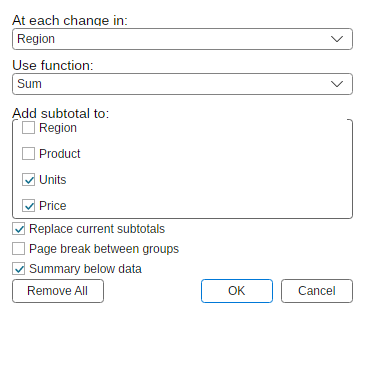
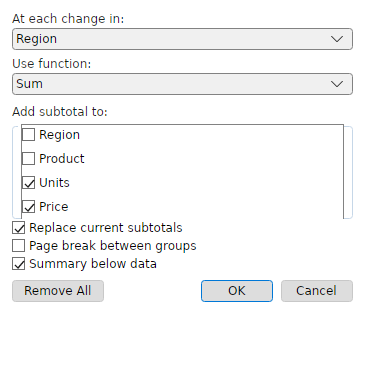
Align Avalonia Subtotal dialog with WPF

diff --git a/src/FreeX.App.Avalonia/MainWindow.cs b/src/FreeX.App.Avalonia/MainWindow.cs
@@ -338,6 +338,18 @@ public sealed partial class MainWindow : Window
     private static readonly IBrush FormulaBarControlBorder = Brush(192, 192, 192);
     private static readonly FontFamily FormulaBarFontFamily =
         new("Segoe UI, Arial Narrow, Aptos Narrow, Liberation Sans Narrow, Nimbus Sans Narrow, DejaVu Sans Condensed, Arial, Liberation Sans, sans-serif");
+    // Subtotal is a compact WPF data dialog: its inputs and buttons are shorter than the generic
+    // 24px compact-dialog family. Keep the shared chrome and only override the measured WPF metrics.
+    private static readonly AvaloniaCompactDialogChromeStyle SubtotalDialogChromeStyle =
+        AvaloniaCompactDialogChrome.WindowsStyle with
+        {
+            ControlHeight = 22,
+            ButtonHeight = 22,
+            ButtonPadding = new Thickness(10, 1),
+            ComboBoxPadding = new Thickness(4, 0, 4, 0),
+            ListBoxItemPadding = new Thickness(0, 1),
+            ListBoxItemMinHeight = 22,
+        };
 
     // Shell chrome surface — shared by the toolbar and the sheet-tabs/status bar so the window chrome reads
     // as one cohesive light surface (the same #F5F6F7 the ribbon theme uses). Exposed for tests.
@@ -20050,6 +20062,7 @@ public sealed partial class MainWindow : Window
             WindowStartupLocation = WindowStartupLocation.CenterOwner,
             ShowInTaskbar = false,
         };
+        AvaloniaCompactDialogChrome.ApplyWindow(dialog, SubtotalDialogChromeStyle);
         AutomationProperties.SetAutomationId(dialog, "SubtotalCompactDialog");
 
         var groupColumnBox = new ComboBox
@@ -20058,7 +20071,6 @@ public sealed partial class MainWindow : Window
             SelectedItem = columns.FirstOrDefault(column => column.Offset == initialGroupColumnOffset) ?? columns[0],
             HorizontalAlignment = AvaloniaHorizontalAlignment.Stretch,
         };
-        ApplyDialogComboBoxChrome(groupColumnBox);
         ApplySubtotalComboBoxChrome(groupColumnBox);
         AutomationProperties.SetName(groupColumnBox, StripDisplayMnemonic(UiText.Get("Subtotal_AtEachChangeInAutomationName")));
         AutomationProperties.SetAutomationId(groupColumnBox, "SubtotalGroupColumnBox");
@@ -20072,7 +20084,6 @@ public sealed partial class MainWindow : Window
                 ?? functions[0],
             HorizontalAlignment = AvaloniaHorizontalAlignment.Stretch,
         };
-        ApplyDialogComboBoxChrome(functionBox);
         ApplySubtotalComboBoxChrome(functionBox);
         AutomationProperties.SetName(functionBox, StripDisplayMnemonic(UiText.Get("Subtotal_UseFunctionAutomationName")));
         AutomationProperties.SetAutomationId(functionBox, "SubtotalFunctionBox");
@@ -20160,7 +20171,7 @@ public sealed partial class MainWindow : Window
             MinWidth = 76,
             Padding = new Thickness(10, 4),
         };
-        ApplyDialogButtonChrome(okButton, 72, isDefault: true);
+        AvaloniaCompactDialogChrome.ApplyButton(okButton, SubtotalDialogChromeStyle, 72, isDefault: true);
         AutomationProperties.SetName(okButton, UiText.Ok);
         AutomationProperties.SetAutomationId(okButton, "SubtotalOkButton");
         AutomationProperties.SetHelpText(okButton, UiText.Get("Subtotal_Subtotal"));
@@ -20171,7 +20182,7 @@ public sealed partial class MainWindow : Window
             MinWidth = 96,
             Padding = new Thickness(10, 4),
         };
-        ApplyDialogButtonChrome(removeAllButton, 92);
+        AvaloniaCompactDialogChrome.ApplyButton(removeAllButton, SubtotalDialogChromeStyle, 92);
         AutomationProperties.SetName(removeAllButton, UiText.Get("Subtotal_RemoveAllAutomationName"));
         AutomationProperties.SetAutomationId(removeAllButton, "SubtotalRemoveAllButton");
         AutomationProperties.SetHelpText(removeAllButton, UiText.Get("Subtotal_RemoveAllHelpText"));
@@ -20183,7 +20194,7 @@ public sealed partial class MainWindow : Window
             MinWidth = 76,
             Padding = new Thickness(10, 4),
         };
-        ApplyDialogButtonChrome(cancelButton, 72);
+        AvaloniaCompactDialogChrome.ApplyButton(cancelButton, SubtotalDialogChromeStyle, 72);
         AutomationProperties.SetName(cancelButton, UiText.Cancel);
         AutomationProperties.SetAutomationId(cancelButton, "SubtotalCancelButton");
         AutomationProperties.SetHelpText(cancelButton, UiText.Cancel);
@@ -20260,7 +20271,7 @@ public sealed partial class MainWindow : Window
         };
         var buttonRow = new Grid
         {
-            Height = 21,
+            Height = 22,
             Margin = new Thickness(0, 0, 0, 76),
             ColumnDefinitions = new ColumnDefinitions("Auto,*,Auto"),
             Children =
@@ -20270,6 +20281,16 @@ public sealed partial class MainWindow : Window
             },
         };
         Grid.SetColumn(actionButtons, 2);
+
+        var columnsGroup = new GroupBox
+        {
+            Content = columnsList,
+            Height = 100,
+            MinHeight = 100,
+            MaxHeight = 100,
+            Padding = new Thickness(3, 0, 3, 0),
+        };
+        AvaloniaCompactDialogChrome.ApplyGroupBox(columnsGroup, SubtotalDialogChromeStyle);
 
         dialog.Content = new DockPanel
         {
@@ -20285,14 +20306,7 @@ public sealed partial class MainWindow : Window
                         CreateSubtotalField(UiText.Get("Subtotal_AtEachChangeIn"), groupColumnBox),
                         CreateSubtotalField(UiText.Get("Subtotal_UseFunction"), functionBox, topMargin: 7),
                         CreateSubtotalLabel(UiText.Get("Subtotal_AddSubtotalTo"), columnsList, topMargin: 10),
-                        new GroupBox
-                        {
-                            Content = columnsList,
-                            Height = 100,
-                            MinHeight = 100,
-                            MaxHeight = 100,
-                            Padding = new Thickness(0),
-                        },
+                        columnsGroup,
                         replaceBox,
                         pageBreakBox,
                         summaryBelowBox,
@@ -20302,7 +20316,17 @@ public sealed partial class MainWindow : Window
             },
         };
         DockPanel.SetDock(buttonRow, Dock.Bottom);
-        dialog.Opened += (_, _) => groupColumnBox.Focus();
+        dialog.Opened += (_, _) =>
+        {
+            // ApplyWindow normalizes descendants for every dialog. Reapply this route's measured
+            // metrics after that pass so Subtotal stays aligned with the WPF capture.
+            ApplySubtotalComboBoxChrome(groupColumnBox);
+            ApplySubtotalComboBoxChrome(functionBox);
+            AvaloniaCompactDialogChrome.ApplyButton(okButton, SubtotalDialogChromeStyle, 72, isDefault: true);
+            AvaloniaCompactDialogChrome.ApplyButton(removeAllButton, SubtotalDialogChromeStyle, 92);
+            AvaloniaCompactDialogChrome.ApplyButton(cancelButton, SubtotalDialogChromeStyle, 72);
+            groupColumnBox.Focus();
+        };
 
         await dialog.ShowDialog(this);
         return result;
@@ -20334,9 +20358,7 @@ public sealed partial class MainWindow : Window
 
     private static void ApplySubtotalComboBoxChrome(ComboBox comboBox)
     {
-        comboBox.Height = 22;
-        comboBox.MinHeight = 22;
-        comboBox.MaxHeight = 22;
+        AvaloniaCompactDialogChrome.ApplyComboBox(comboBox, SubtotalDialogChromeStyle);
     }
 
     private static AccessText CreateSubtotalAccessText(string label) =>
@@ -20344,10 +20366,8 @@ public sealed partial class MainWindow : Window
 
     private static void ApplySubtotalCheckBoxChrome(CheckBox checkBox)
     {
-        checkBox.MinHeight = 20;
-        checkBox.MaxHeight = 20;
-        checkBox.FontSize = 12;
-        checkBox.FontFamily = FormulaBarFontFamily;
+        StripContentMnemonic(checkBox);
+        AvaloniaCompactDialogChrome.ApplyCompactCheckBox(checkBox, SubtotalDialogChromeStyle);
     }
 
     private async Task ShowRemoveDuplicatesDialogAsync()

diff --git a/tests/FreeX.App.Avalonia.Tests/AvaloniaSheetDialogSizeSourceTests.cs b/tests/FreeX.App.Avalonia.Tests/AvaloniaSheetDialogSizeSourceTests.cs
@@ -62,8 +62,8 @@ public sealed class AvaloniaSheetDialogSizeSourceTests
 
         var subtotalDialog = ExtractMethodSource(
             mainWindowSource,
-            "private async Task<SubtotalDialogResult?> ShowSubtotalInputDialogAsync()",
-            "private static StackPanel CreateSubtotalField(string label, Control control)");
+            "private async Task<SubtotalDialogResult?> ShowSubtotalInputDialogAsync(",
+            "private static StackPanel CreateSubtotalField(string label, Control control, double topMargin = 0)");
         subtotalDialog.Should().Contain("Width = SubtotalParityDialogWidth,");
         subtotalDialog.Should().Contain("Height = SubtotalParityDialogHeight,");
         subtotalDialog.Should().Contain("MinWidth = SubtotalParityDialogWidth,");
@@ -78,6 +78,27 @@ public sealed class AvaloniaSheetDialogSizeSourceTests
         textToColumnsDialog.Should().Contain("Height = TextToColumnsParityDialogHeight,");
         textToColumnsDialog.Should().Contain("MinWidth = TextToColumnsParityDialogWidth,");
         textToColumnsDialog.Should().Contain("MinHeight = TextToColumnsParityDialogHeight,");
+    }
+
+    [Fact]
+    public void SubtotalDialog_UsesSharedWindowsChromeAfterGenericDialogNormalization()
+    {
+        var source = File.ReadAllText(RepoFile("src", "FreeX.App.Avalonia", "MainWindow.cs"));
+        var subtotalDialog = ExtractMethodSource(
+            source,
+            "private async Task<SubtotalDialogResult?> ShowSubtotalInputDialogAsync(",
+            "private static StackPanel CreateSubtotalField(string label, Control control, double topMargin = 0)");
+
+        subtotalDialog.Should().Contain("AvaloniaCompactDialogChrome.ApplyWindow(dialog, SubtotalDialogChromeStyle);");
+        subtotalDialog.Should().Contain("ApplySubtotalComboBoxChrome(groupColumnBox);");
+        subtotalDialog.Should().Contain("ApplySubtotalComboBoxChrome(functionBox);");
+        subtotalDialog.Should().Contain("AvaloniaCompactDialogChrome.ApplyGroupBox(columnsGroup, SubtotalDialogChromeStyle);");
+        subtotalDialog.Should().Contain("AvaloniaCompactDialogChrome.ApplyButton(okButton, SubtotalDialogChromeStyle, 72, isDefault: true);");
+        subtotalDialog.Should().Contain("AvaloniaCompactDialogChrome.ApplyButton(removeAllButton, SubtotalDialogChromeStyle, 92);");
+        subtotalDialog.Should().Contain("AvaloniaCompactDialogChrome.ApplyButton(cancelButton, SubtotalDialogChromeStyle, 72);");
+        source.Should().Contain("AvaloniaCompactDialogChrome.ApplyCompactCheckBox(checkBox, SubtotalDialogChromeStyle);");
+        subtotalDialog.Should().NotContain("ApplyDialogComboBoxChrome(groupColumnBox);");
+        subtotalDialog.Should().NotContain("ApplyDialogButtonChrome(okButton, 72");
     }
 
     private static string ExtractMethodSource(string source, string startMarker, string endMarker)

diff --git a/docs/parity/dialog-visual-evidence-summary.md b/docs/parity/dialog-visual-evidence-summary.md
@@ -63,7 +63,6 @@ Outliers are ranked by a deterministic triage score: normalized 32x32 ARGB sampl
 | Surface id | WPF logical size | Avalonia logical size | Raw PNG sizes | Bucket | Evidence flag | Score | Sample delta | Luma delta | Non-bg delta |
 | --- | ---: | ---: | --- | --- | --- | ---: | ---: | ---: | ---: |
 | dialog.PrintPreview | 1120x700 | 1120x700 | 1120x700 px @ 96 DPI vs 1120x700 px @ 96 DPI |  |  | 0.157 | 0.025 | 0.003 | 0.129 |
-| dialog.Subtotal | 380x390 | 380x390 | 380x390 px @ 96 DPI vs 380x390 px @ 96 DPI |  |  | 0.142 | 0.026 | 0.011 | 0.105 |
 | dialog.Options.QuickAccessToolbar | 744.301x521 | 744x521 | 744x521 px @ 96 DPI vs 744x521 px @ 96 DPI |  |  | 0.132 | 0.027 | 0.004 | 0.100 |
 | dialog.PivotTableOptions.Data | 520x500 | 520x500 | 520x500 px @ 96 DPI vs 520x500 px @ 96 DPI |  |  | 0.125 | 0.035 | 0.015 | 0.074 |
 | dialog.SelectionPane | 520x440 | 520x440 | 520x440 px @ 96 DPI vs 520x440 px @ 96 DPI |  |  | 0.122 | 0.019 | 0.006 | 0.097 |
@@ -72,6 +71,7 @@ Outliers are ranked by a deterministic triage score: normalized 32x32 ARGB sampl
 | dialog.PageSetup.Sheet | 600x560 | 600x560 | 600x560 px @ 96 DPI vs 600x560 px @ 96 DPI |  |  | 0.117 | 0.035 | 0.008 | 0.073 |
 | dialog.PivotTableOptions.Display | 520x500 | 520x500 | 520x500 px @ 96 DPI vs 520x500 px @ 96 DPI |  |  | 0.116 | 0.037 | 0.014 | 0.065 |
 | dialog.Options | 744x521 | 744x521 | 744x521 px @ 96 DPI vs 744x521 px @ 96 DPI |  |  | 0.111 | 0.026 | 0.007 | 0.078 |
+| dialog.Options.General | 744x521 | 744x521 | 744x521 px @ 96 DPI vs 744x521 px @ 96 DPI |  |  | 0.111 | 0.026 | 0.007 | 0.078 |
 
 ## Scale-Aware Dimension Mismatch Details
 
@@ -176,7 +176,7 @@ These rows have a DPI-normalized checked-in PNG size that disagrees with the dia
 | dialog.Sort | dialog.Sort.png | 760x500 | 760x500 px @ 96 DPI | True | dialog.Sort.png | 760x500 | 760x500 px @ 96 DPI | True | True | 0.042 |
 | dialog.SortOptions | dialog.SortOptions.png | 330x260 | 495x390 px @ 144 DPI | True | dialog.SortOptions.png | 330x260 | 330x260 px @ 96 DPI | True | True | 0.111 |
 | dialog.Sparkline | dialog.Sparkline.png | 380x280 | 380x280 px @ 96 DPI | True | dialog.Sparkline.png | 380x280 | 380x280 px @ 96 DPI | True | True | 0.077 |
-| dialog.Subtotal | dialog.Subtotal.png | 380x390 | 380x390 px @ 96 DPI | True | dialog.Subtotal.png | 380x390 | 380x390 px @ 96 DPI | True | True | 0.142 |
+| dialog.Subtotal | dialog.Subtotal.png | 380x390 | 380x390 px @ 96 DPI | True | dialog.Subtotal.png | 380x390 | 380x390 px @ 96 DPI | True | True | 0.038 |
 | dialog.SymbolPicker | dialog.SymbolPicker.png | 840x620 | 840x620 px @ 96 DPI | True | dialog.SymbolPicker.png | 840x620 | 840x620 px @ 96 DPI | True | True | 0.036 |
 | dialog.TextToColumns | dialog.TextToColumns.png | 500x430 | 750x645 px @ 144 DPI | True | dialog.TextToColumns.png | 500x430 | 500x430 px @ 96 DPI | True | True | 0.089 |
 | dialog.UnhideSheet | dialog.UnhideSheet.png | 340x160 | 510x240 px @ 144 DPI | True | dialog.UnhideSheet.png | 340x160 | 340x160 px @ 96 DPI | True | True | 0.041 |
